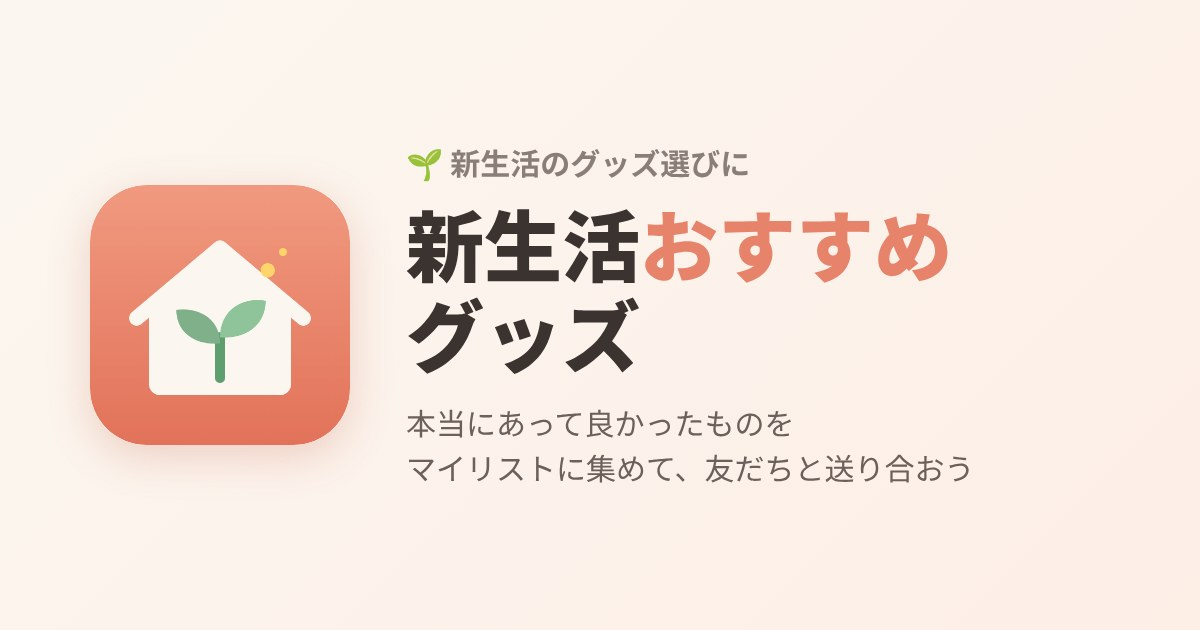
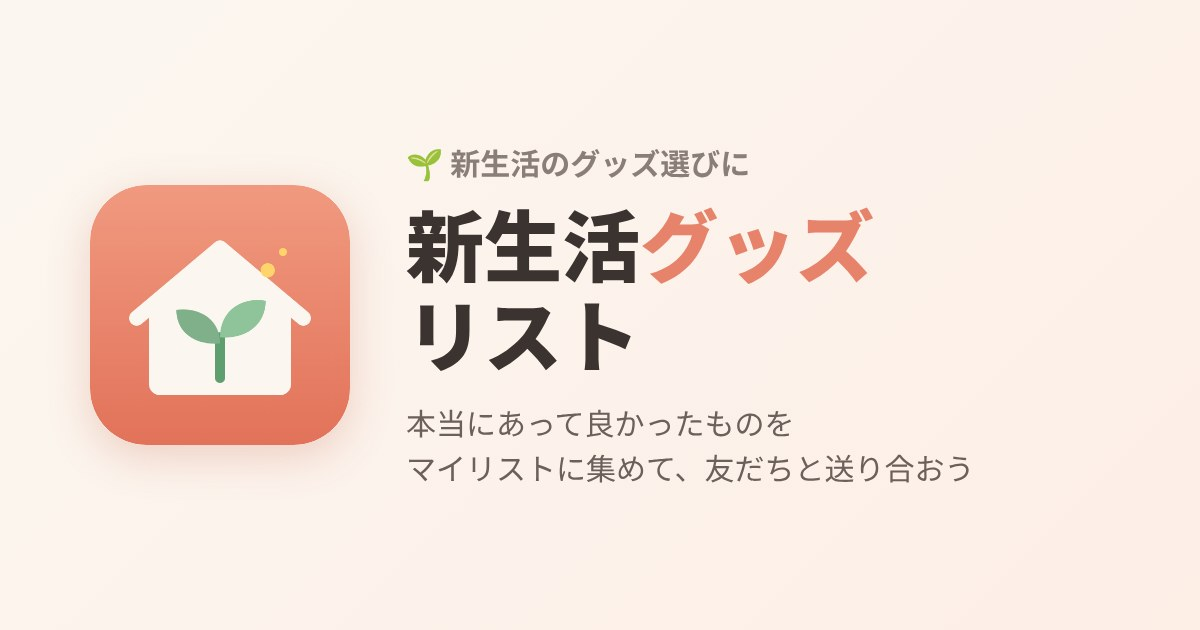
v1.36.0: アプリ名を「新生活グッズリスト」に変更
Claude-Session: https://claude.ai/code/session_01HGhUF2h44iPnjfYCme5hxR

Changed region(s): [[0.5242, 0.3317, 0.8017, 0.4524], [0.3392, 0.4825, 0.5242, 0.6032]]

diff --git a/index.html b/index.html
@@ -4,14 +4,14 @@
 <meta charset="UTF-8">
 <meta name="viewport" content="width=device-width, initial-scale=1, maximum-scale=1, viewport-fit=cover">
 <meta http-equiv="Content-Security-Policy" content="default-src 'self'; script-src 'self' 'unsafe-inline'; style-src 'self' 'unsafe-inline'; img-src 'self' data: blob:; connect-src 'self'; font-src 'self' data:; object-src 'none'; base-uri 'self'; form-action 'none'">
-<title>新生活おすすめグッズ</title>
+<title>新生活グッズリスト</title>
 <meta name="description" content="性別・年代・性格・星座から新生活のおすすめグッズを選んで、本当にあって良かったものをマイリストに集め、友だちと送り合えるアプリ。">
 <meta property="og:type" content="website">
-<meta property="og:site_name" content="新生活おすすめグッズ">
-<meta property="og:title" content="新生活おすすめグッズ">
+<meta property="og:site_name" content="新生活グッズリスト">
+<meta property="og:title" content="新生活グッズリスト">
 <meta property="og:description" content="本当にあって良かったものをマイリストに集めて、友だちと送り合おう。ホーム画面に追加するとアプリのように使えます。">
 <meta property="og:url" content="https://sunatrux.github.io/newlife/">
-<meta property="og:image" content="https://sunatrux.github.io/newlife/icons/og.jpg?v=1">
+<meta property="og:image" content="https://sunatrux.github.io/newlife/icons/og.jpg?v=2">
 <meta property="og:image:width" content="1200">
 <meta property="og:image:height" content="630">
 <meta name="twitter:card" content="summary_large_image">
@@ -264,7 +264,7 @@ code{background:#f4efe7;padding:1px 5px;border-radius:5px;font-size:12px}
 <div id="installBar"></div>
 <header>
   <div class="ttl">
-    <h1>🌱 新生活<span>おすすめ</span>グッズ</h1>
+    <h1>🌱 新生活<span>グッズ</span>リスト</h1>
     <button class="gear" id="gearBtn" aria-label="設定"><svg viewBox="0 0 24 24" width="20" height="20" fill="none" stroke="currentColor" stroke-width="1.9" stroke-linecap="round" stroke-linejoin="round" aria-hidden="true"><circle cx="12" cy="12" r="3"/><path d="M19.4 15a1.65 1.65 0 0 0 .33 1.82l.06.06a2 2 0 1 1-2.83 2.83l-.06-.06a1.65 1.65 0 0 0-1.82-.33 1.65 1.65 0 0 0-1 1.51V21a2 2 0 1 1-4 0v-.09A1.65 1.65 0 0 0 9 19.4a1.65 1.65 0 0 0-1.82.33l-.06.06a2 2 0 1 1-2.83-2.83l.06-.06A1.65 1.65 0 0 0 4.68 15a1.65 1.65 0 0 0-1.51-1H3a2 2 0 1 1 0-4h.09A1.65 1.65 0 0 0 4.6 9a1.65 1.65 0 0 0-.33-1.82l-.06-.06a2 2 0 1 1 2.83-2.83l.06.06A1.65 1.65 0 0 0 9 4.68a1.65 1.65 0 0 0 1-1.51V3a2 2 0 1 1 4 0v.09a1.65 1.65 0 0 0 1 1.51 1.65 1.65 0 0 0 1.82-.33l.06-.06a2 2 0 1 1 2.83 2.83l-.06.06A1.65 1.65 0 0 0 19.4 9a1.65 1.65 0 0 0 1.51 1H21a2 2 0 1 1 0 4h-.09a1.65 1.65 0 0 0-1.51 1z"/></svg></button>
   </div>
   <p>本当にあって良かったものだけを集めよう</p>
@@ -462,11 +462,12 @@ var qrcode=function(){var t=function(t,r){var e=t,n=g[r],o=null,i=0,a=null,u=[],
 <script>
 // ===== バージョン =====
 const SHARE_URL="https://sunatrux.github.io/newlife/";
-const APP_VERSION = '1.35.0';        // メジャー.マイナー.パッチ。更新のたびに上げる。CHANGELOG.md と合わせる
+const APP_VERSION = '1.36.0';        // メジャー.マイナー.パッチ。更新のたびに上げる。CHANGELOG.md と合わせる
 const APP_RELEASE_DATE = '2026-11-07';
 const VERSION=APP_VERSION;
 const CHANGELOG_URL="https://github.com/sunatrux/newlife/blob/main/CHANGELOG.md";
 const HISTORY=[
+ {v:"1.36.0",d:"2026-11-07",c:["アプリの名前を「新生活グッズリスト」に変更"]},
  {v:"1.35.0",d:"2026-11-07",c:["おすすめの「重視すること」をなくして、条件をシンプルに（エコ・安価・家電・電気なしの絞り込みは一覧でできます）"]},
  {v:"1.34.1",d:"2026-11-07",c:["更新履歴は、設定の「アプリの更新」から見るように（画面下のリンクはなくしました）"]},
  {v:"1.34.0",d:"2026-11-07",c:["年代を「20〜30代／40〜50代／60代〜」の3つに"]},
@@ -923,7 +924,7 @@ function renderExport(){
     const groups=[["now",WHEN.now],["later",WHEN.later],["","🗂 時期未定"]];
     md+=groups.map(([k,title])=>{const g=list.filter(m=>(m.w||"")===k);return g.length?`## ${title}\n${g.map(m=>line(m,false)).join("\n")}`:""}).filter(Boolean).join("\n\n");
   }
-  if(withLink.checked)md+=`\n\n新生活おすすめグッズで作ったリストです。アプリを開いて「共有」→「取り込む」に貼り付けると、マイリストに追加できます。\n${SHARE_URL}`;
+  if(withLink.checked)md+=`\n\n新生活グッズリストのアプリで作ったリストです。アプリを開いて「共有」→「取り込む」に貼り付けると、マイリストに追加できます。\n${SHARE_URL}`;
   document.getElementById("exp").value=md+"\n";
 }
 // 付けるもの：時期・メモ・失敗談・商品URL・このアプリのリンク（チップで切り替え。最初はすべてオン）
@@ -970,7 +971,7 @@ document.getElementById("linkBtn").onclick=async()=>{
   if(!r){toast("送るアイテムがありません（送るもの・時期の選び方を確かめてね）");return}
   if(r.url.length>8000){toast("アイテムが多くてリンクが長すぎます。「テキストで送る」を使ってね");return}
   const nm=myName.value.trim();
-  const text=`${nm?nm+"の":""}新生活グッズのリスト（${r.count}件）です。リンクを開くと、新生活おすすめグッズのマイリストに追加できます。\n${r.url}\n\n※ホーム画面のアプリで使っている人は、このメッセージ全体をコピーして、アプリの「共有」→「取り込む」に貼り付けてください。`;
+  const text=`${nm?nm+"の":""}新生活グッズのリスト（${r.count}件）です。リンクを開くと、新生活グッズリストのマイリストに追加できます。\n${r.url}\n\n※ホーム画面のアプリで使っている人は、このメッセージ全体をコピーして、アプリの「共有」→「取り込む」に貼り付けてください。`;
   sendText(text,"新生活グッズのリスト",null);
 };
 // 受け取った側：リンクを開いたとき・貼り付けたとき
@@ -1095,7 +1096,7 @@ if(themeMq){try{themeMq.addEventListener("change",applyTheme)}catch(e){try{theme
 applyTheme();
 // ===== 作者に感想を送る（アプリ定型09。共通のTallyフォームで、?app= でアプリが選ばれる） =====
 const FEEDBACK_URL="https://tally.so/r/9qL0A4";
-const FEEDBACK_APP_NAME="新生活おすすめグッズ";
+const FEEDBACK_APP_NAME="新生活グッズリスト";
 function feedbackDeviceInfo(){
   const ua=navigator.userAgent||"";let m,dev,os="";
   if(/iPhone/.test(ua))dev="iPhone";
@@ -1132,12 +1133,12 @@ document.getElementById("histBtn").onclick=()=>vm.classList.add("on");
 // ===== 友達に勧める（文章は送る前に書きかえOK。書きかえた文章は開いている間だけ覚えておく） =====
 const recText=document.getElementById("recText"),recReset=document.getElementById("recReset");
 let recDraft=null;
-const defaultRecText=()=>"新生活おすすめグッズ\n"+
+const defaultRecText=()=>"新生活グッズリスト\n"+
   "性別・年代・性格・星座から、新生活にぴったりのグッズを選んでくれるアプリです。ふたり暮らしなら1人目・2人目それぞれで選べます。使ってみて本当にあって良かったもの・失敗だったものをマイリストに残して、友だちと送り合えます。ホーム画面に追加すると、アプリのように使えます。入力したデータはこの端末の中だけに保存され、サーバーには送られません。\n"+SHARE_URL;
 const recNow=()=>recDraft===null?defaultRecText():recDraft;
 function renderRec(){recText.value=recNow();recReset.style.display=recDraft!==null&&recDraft!==defaultRecText()?"inline-block":"none"}
 recText.oninput=()=>{recDraft=recText.value;recReset.style.display=recDraft!==defaultRecText()?"inline-block":"none"};
-document.getElementById("recSend").onclick=()=>sendText(recNow(),"新生活おすすめグッズ",recText);
+document.getElementById("recSend").onclick=()=>sendText(recNow(),"新生活グッズリスト",recText);
 document.getElementById("recCopy").onclick=()=>copyText(recNow(),"文章をコピーしました。",recText);
 recReset.onclick=()=>{recDraft=null;renderRec()};
 renderRec();

diff --git a/sw.js b/sw.js
@@ -1,4 +1,4 @@
-// 新生活おすすめグッズ Service Worker
+// 新生活グッズリスト Service Worker
 // 方針：ネット優先（最新版を取りに行く）→ 3秒以内に返事がない／オフラインなら保存済みの版で起動する。
 // アプリの更新は index.html の差し替えだけでOK。このファイルを変える必要はありません。
 const CACHE = 'newlife-v1';

diff --git a/CHANGELOG.md b/CHANGELOG.md
@@ -1,6 +1,9 @@
 # 更新履歴
 
-新生活おすすめグッズ（https://sunatrux.github.io/newlife/）の変更点です。
+新生活グッズリスト（https://sunatrux.github.io/newlife/）の変更点です。
+
+## 1.36.0（2026-11-07）
+- アプリの名前を「新生活グッズリスト」に変更
 
 ## 1.35.0（2026-11-07）
 - おすすめの「重視すること」をなくして、条件をシンプルに（エコ・安価・家電・電気なしの絞り込みは一覧でできます）
